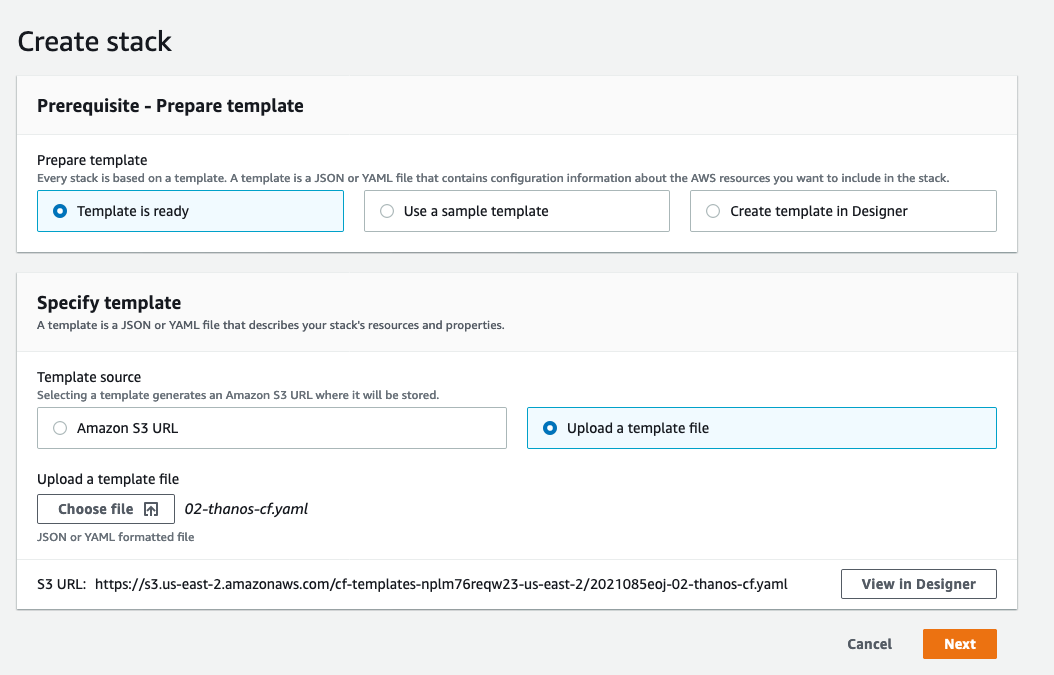
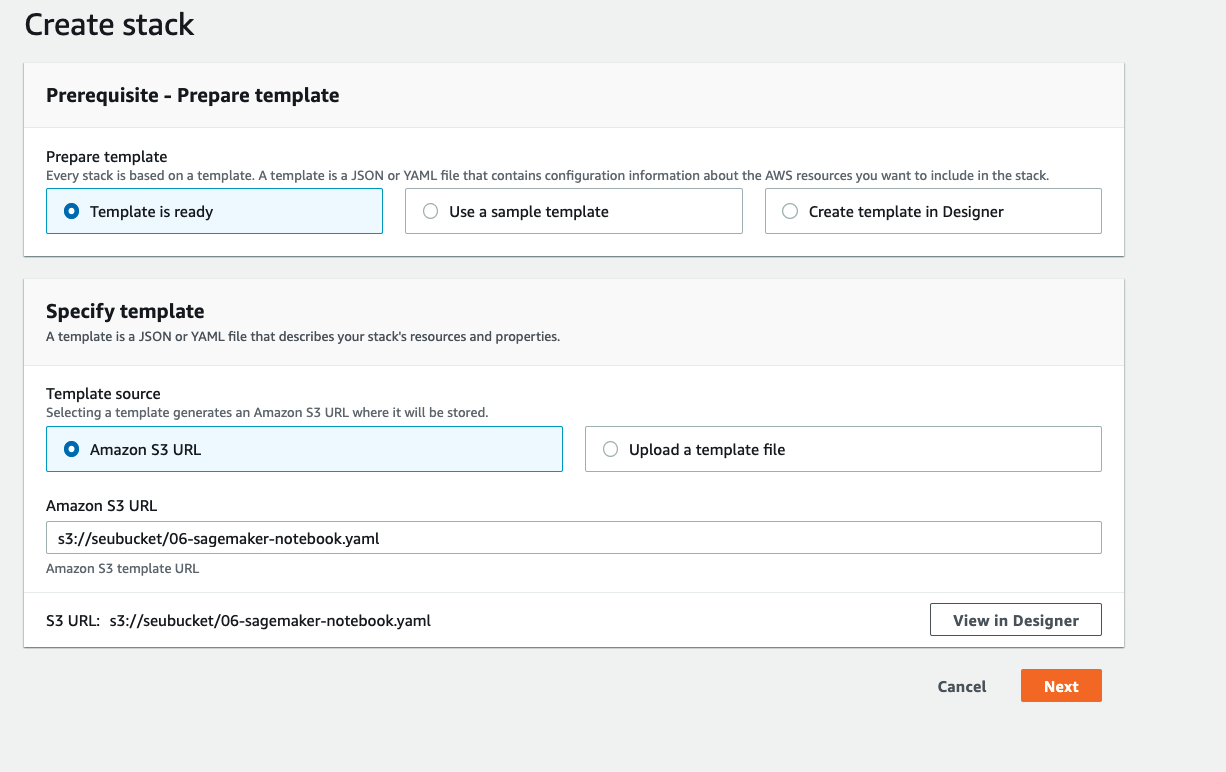
mudando doc

diff --git a/AWS - Support/cloudformation/README.md b/AWS - Support/cloudformation/README.md
@@ -6,16 +6,22 @@
 
 ## Passo a passo para utilizar o CloudFormation
 
+- Pre-req: Façam upload do template de Cloudformation no bucket S3 que foi disponibilizado para o seu time.
+[Como fazer upload no S3?](https://docs.aws.amazon.com/pt_br/AmazonS3/latest/userguide/upload-objects.html)
+
+Com o template no bucket, sigam: 
+
+
 - Ao logar no console da AWS, procure pelo serviço Cloud Formation: 
 ![01](images/cf-01.png)
 
 - Clique em Stack Options e selecione a opção `with new resources`
 ![01](images/cf-02.png)
 
-- Na opção de `Create Stack`, selecione a opção `upload template file` e `Choose file` , encontre o arquivo na sua máquina (após baixar aqui do Github :p ) 
+- Na opção de `Create Stack`, selecione a opção `Amazon S3 URL` e descreva o nome do seu bucket/arquivo no seguinte formato `s3://seubucket/06-sagemaker-notebook.yaml`  e clique em NEXT.
 ![01](images/cf-03.png)
 
-- Na Stack Name, pode escolher o nome da sua Stack, por exemplo `sagemaker-notebook-avangers`
+- Na Stack Name, pode escolher o nome da sua Stack, por exemplo `sagemaker-notebook-avangers` e o environment que você está utilizando, HackaA ou HackaB.
 ![01](images/cf-04.png)
 
 - Preencha os campos com as variaveis necessárias, e clique em `Create Stack`
